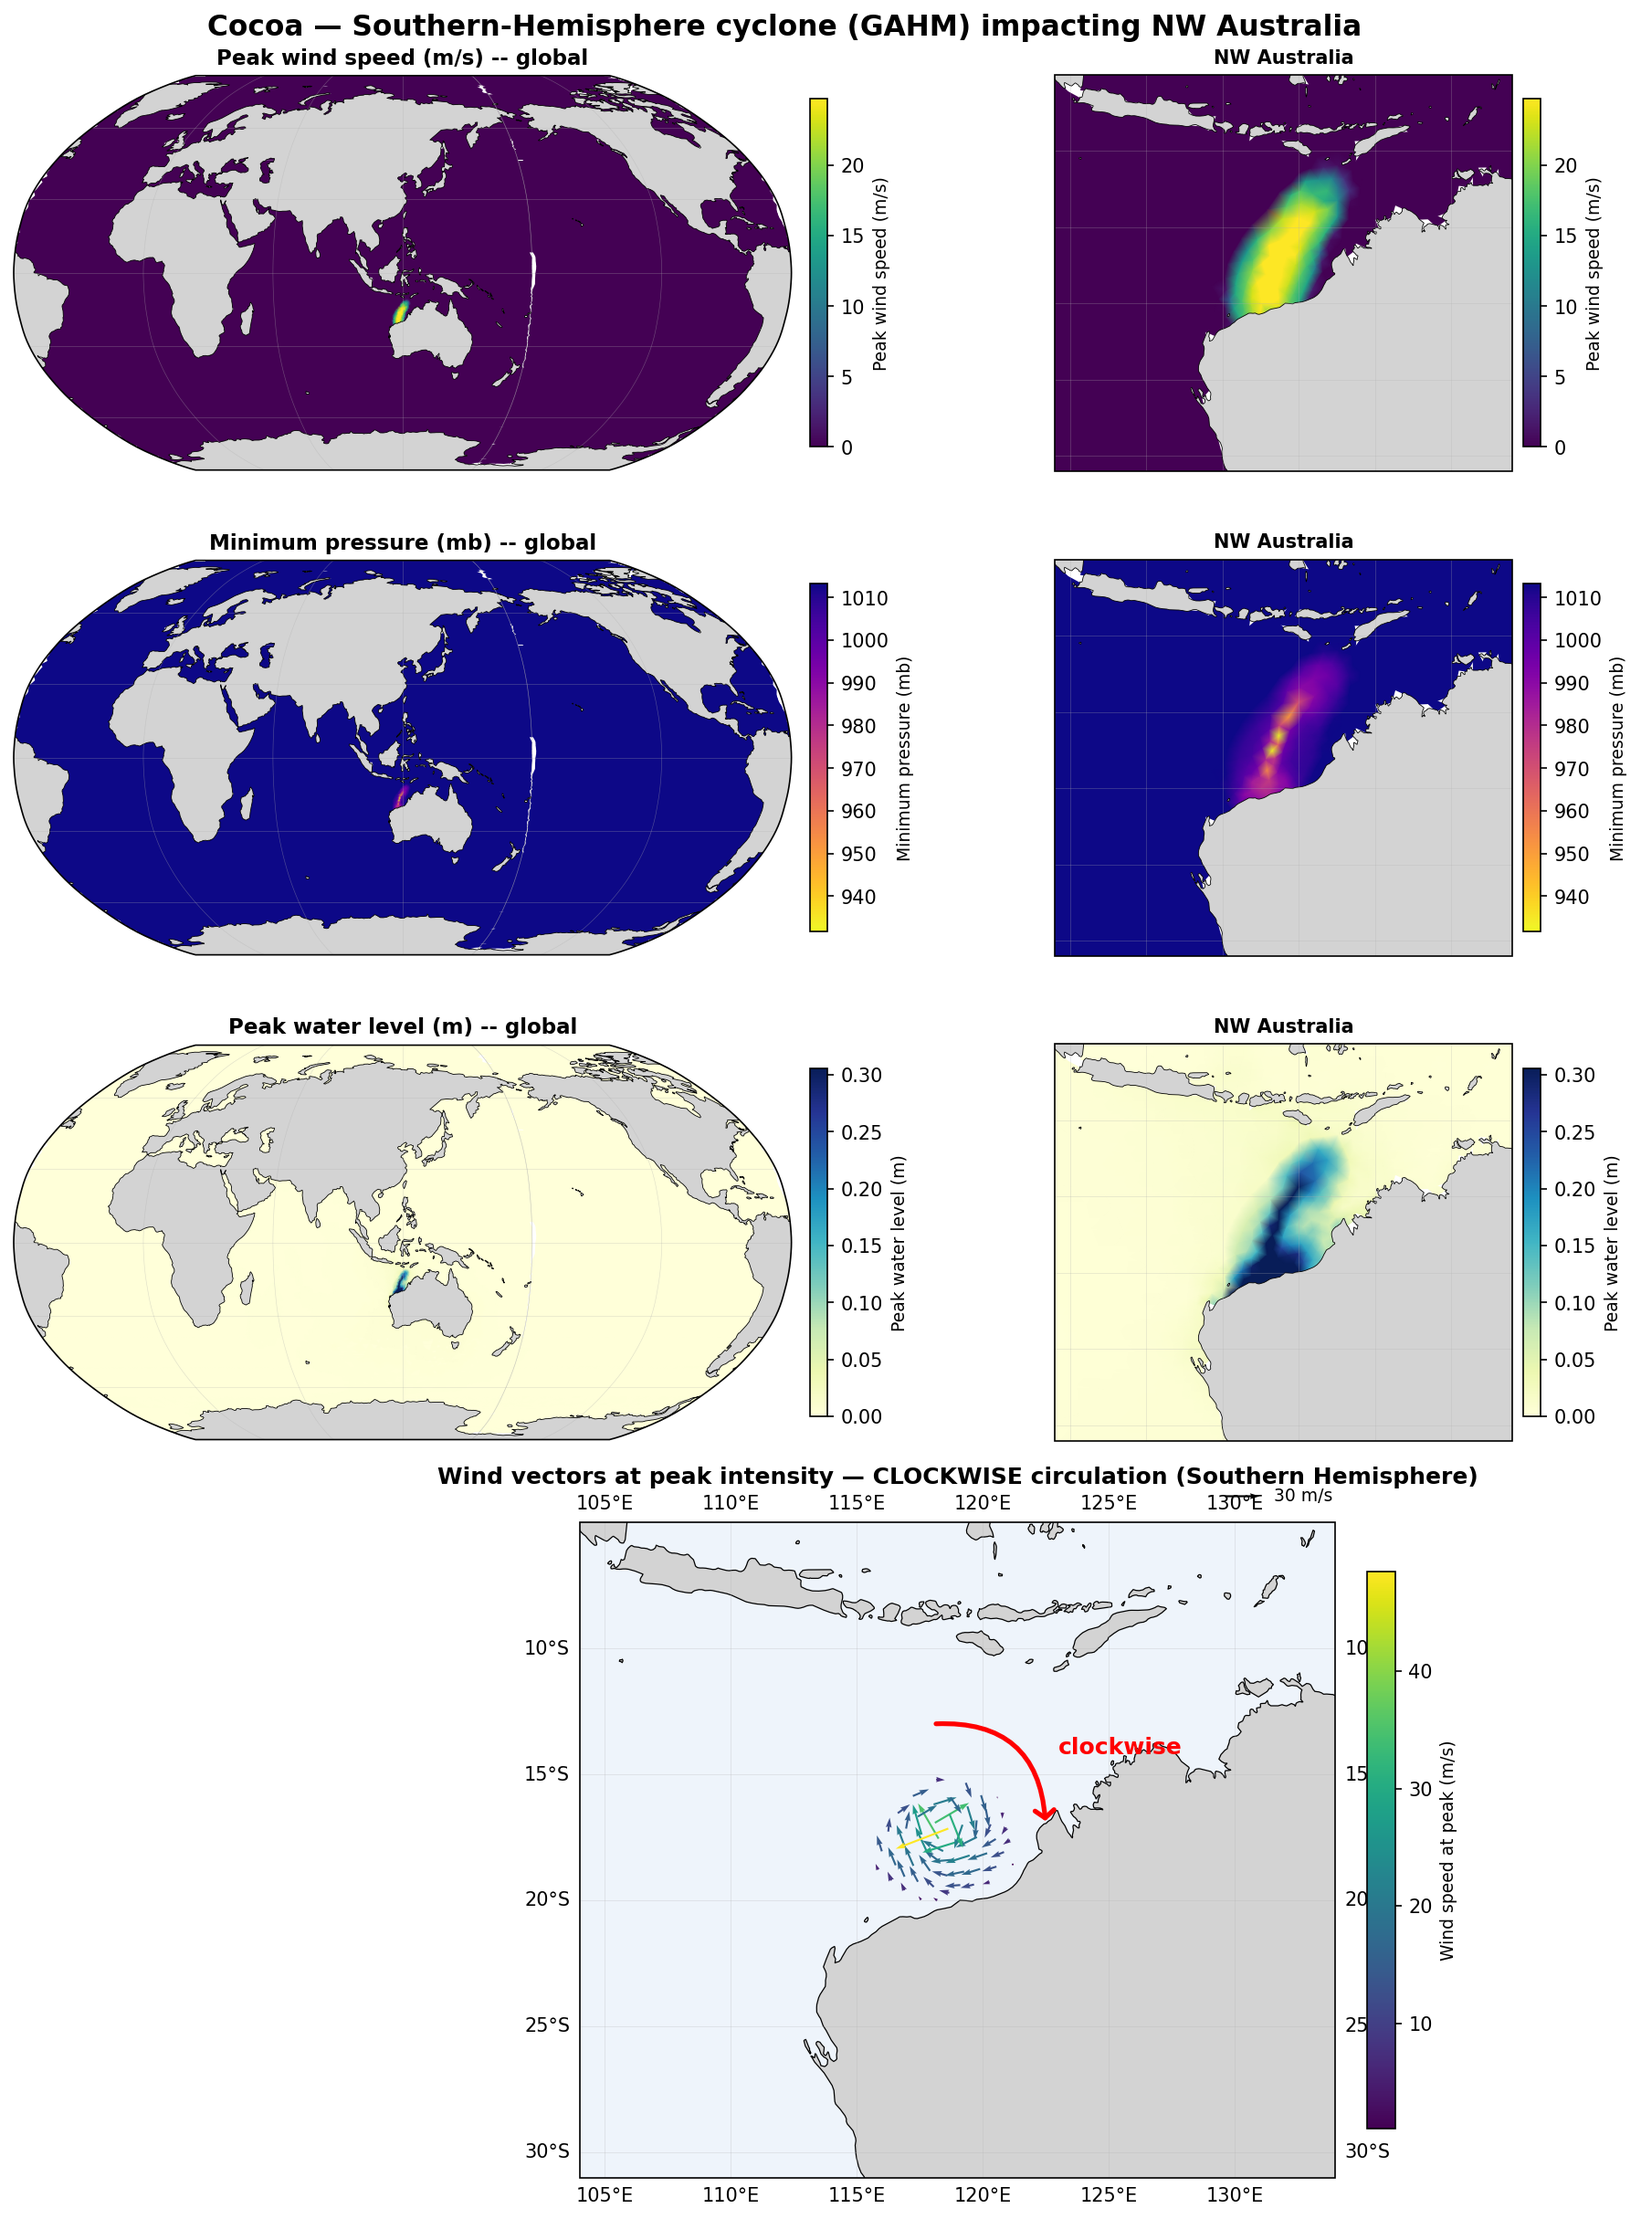
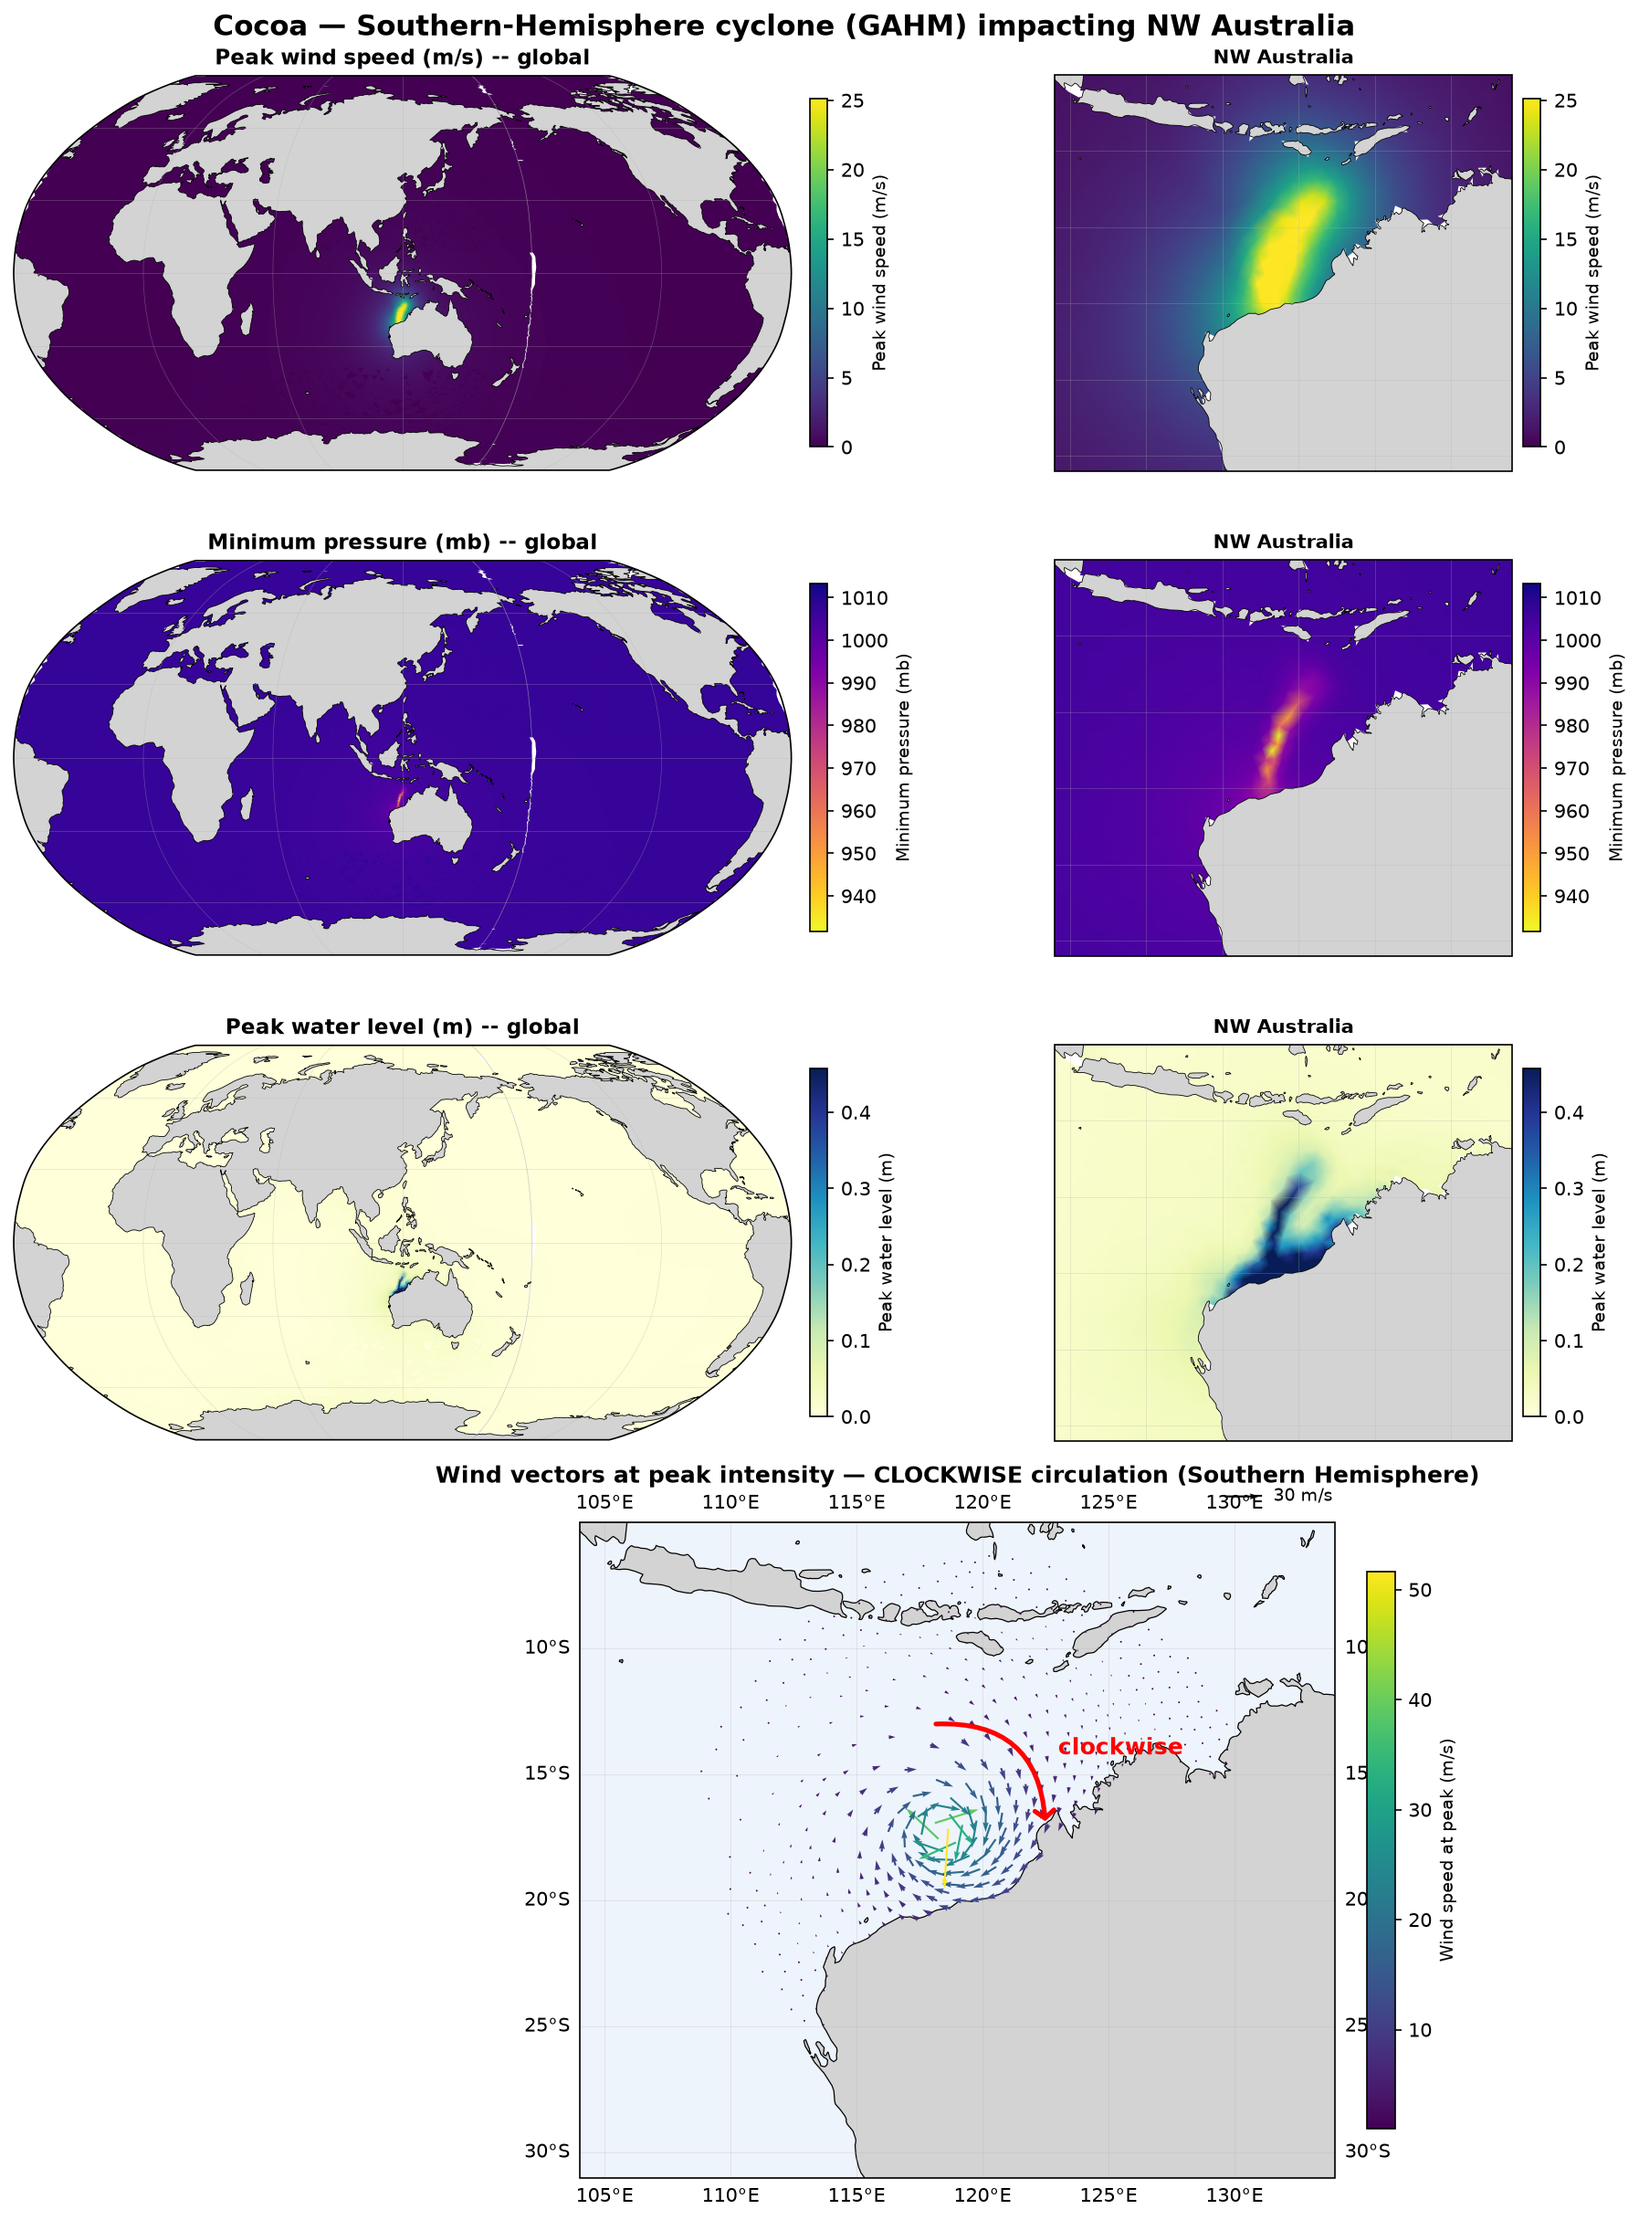
Update global_sh_australia to the current formats
Output keys move under output.global, the plot script reads lon/lat,
and the figure is regenerated with the rewritten GAHM vortex.

diff --git a/global_sh_australia/plot_sh_australia.py b/global_sh_australia/plot_sh_australia.py
@@ -168,8 +168,8 @@ def main() -> None:
     args = parser.parse_args()
 
     dp = Dataset(args.peak, "r")
-    x = np.array(dp.variables["x"][:])
-    y = np.array(dp.variables["y"][:])
+    x = np.array(dp.variables["lon"][:])
+    y = np.array(dp.variables["lat"][:])
     elements = np.array(dp.variables["element"][:]) - 1
     wind_max = np.array(dp.variables["wind_max"][:])
     zeta_max = np.array(dp.variables["zeta_max"][:])
